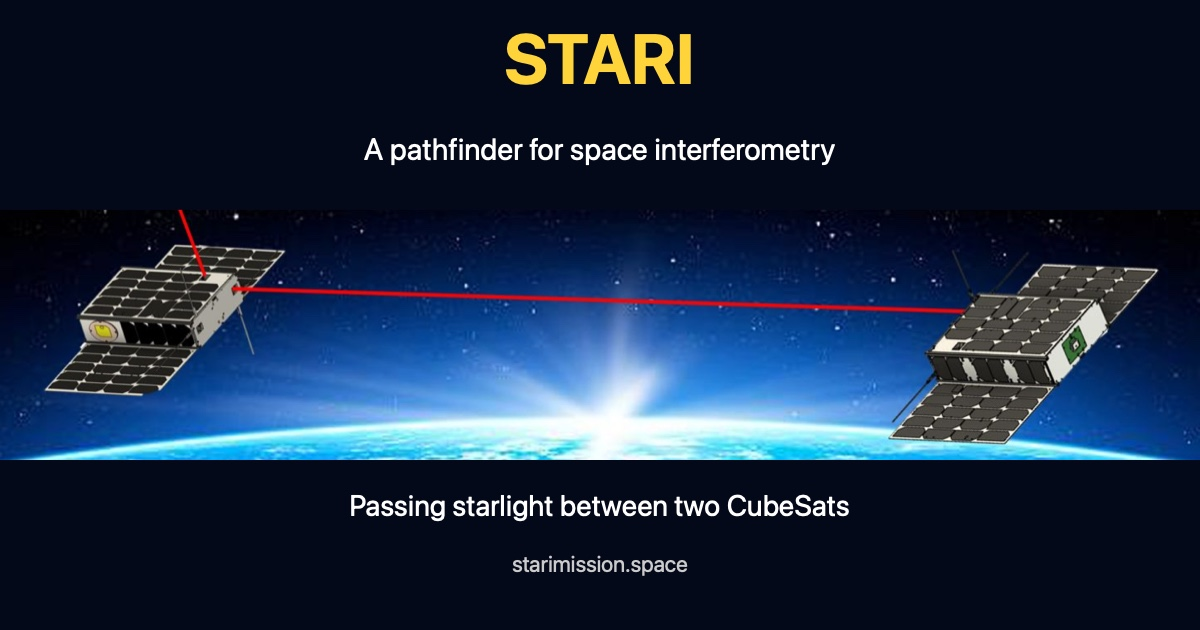
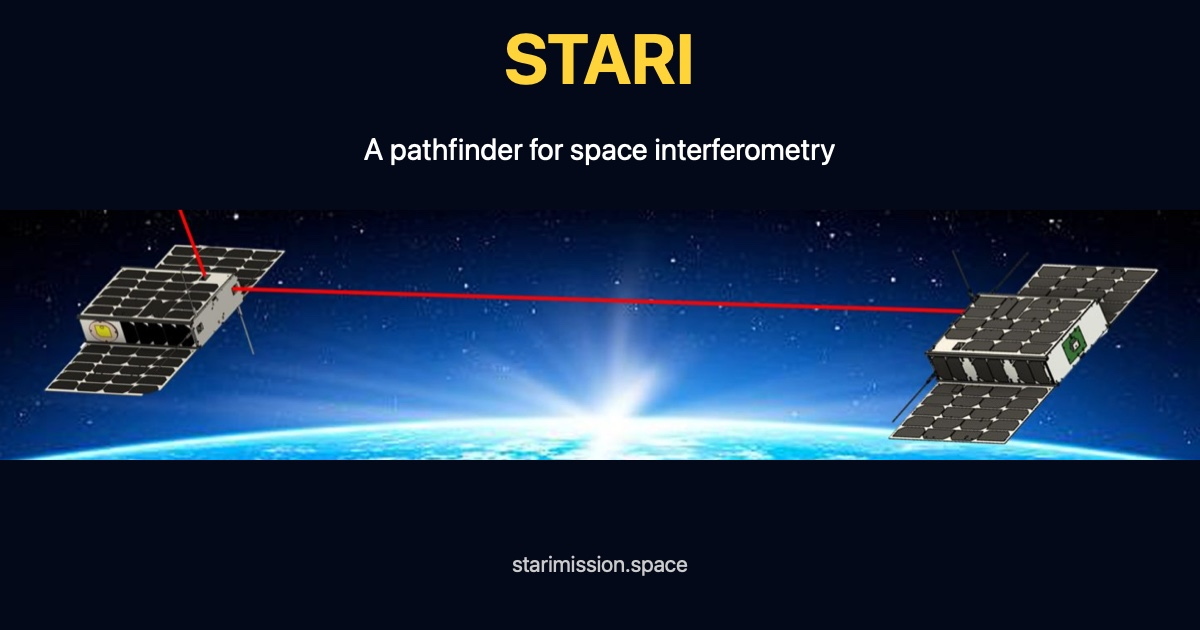
Remove secondary tagline from social sharing image

Changed region(s): [[0.2775, 0.7841, 0.7092, 0.8444]]

diff --git a/support.html b/support.html
@@ -11,14 +11,14 @@
   <meta property="og:title" content="Support STARI &amp; Space Interferometry">
   <meta property="og:description" content="Help advance STARI and the future of space interferometry. Explore University of Michigan Astronomy giving opportunities or discuss support with the mission team.">
   <meta property="og:url" content="https://starimission.space/support.html">
-  <meta property="og:image" content="https://starimission.space/images/stari-social.jpg">
+  <meta property="og:image" content="https://starimission.space/images/stari-social.jpg?v=2">
   <meta property="og:image:width" content="1200">
   <meta property="og:image:height" content="630">
   <meta property="og:image:alt" content="STARI: A pathfinder for space interferometry. Two CubeSats linked by a starlight beam above Earth.">
   <meta name="twitter:card" content="summary_large_image">
   <meta name="twitter:title" content="Support STARI &amp; Space Interferometry">
   <meta name="twitter:description" content="Help advance STARI and the future of space interferometry. Explore University of Michigan Astronomy giving opportunities or discuss support with the mission team.">
-  <meta name="twitter:image" content="https://starimission.space/images/stari-social.jpg">
+  <meta name="twitter:image" content="https://starimission.space/images/stari-social.jpg?v=2">
   <meta name="twitter:image:alt" content="STARI: A pathfinder for space interferometry. Two CubeSats linked by a starlight beam above Earth.">
   <link rel="stylesheet" href="CSS/main.css">
 </head>

diff --git a/index.html b/index.html
@@ -11,14 +11,14 @@
   <meta property="og:title" content="STARI: STarlight Acquisition and Reflection toward Interferometry">
   <meta property="og:description" content="STARI is a twin-CubeSat mission developing formation flying and starlight transfer technologies for future space-based optical interferometry.">
   <meta property="og:url" content="https://starimission.space/">
-  <meta property="og:image" content="https://starimission.space/images/stari-social.jpg">
+  <meta property="og:image" content="https://starimission.space/images/stari-social.jpg?v=2">
   <meta property="og:image:width" content="1200">
   <meta property="og:image:height" content="630">
   <meta property="og:image:alt" content="STARI: A pathfinder for space interferometry. Two CubeSats linked by a starlight beam above Earth.">
   <meta name="twitter:card" content="summary_large_image">
   <meta name="twitter:title" content="STARI: STarlight Acquisition and Reflection toward Interferometry">
   <meta name="twitter:description" content="STARI is a twin-CubeSat mission developing formation flying and starlight transfer technologies for future space-based optical interferometry.">
-  <meta name="twitter:image" content="https://starimission.space/images/stari-social.jpg">
+  <meta name="twitter:image" content="https://starimission.space/images/stari-social.jpg?v=2">
   <meta name="twitter:image:alt" content="STARI: A pathfinder for space interferometry. Two CubeSats linked by a starlight beam above Earth.">
  
 <link rel="stylesheet" href="CSS/main.css">

diff --git a/team.html b/team.html
@@ -11,14 +11,14 @@
   <meta property="og:title" content="STARI – Team">
   <meta property="og:description" content="Meet the scientists and engineers developing STARI, a CubeSat pathfinder for space-based optical interferometry.">
   <meta property="og:url" content="https://starimission.space/team.html">
-  <meta property="og:image" content="https://starimission.space/images/stari-social.jpg">
+  <meta property="og:image" content="https://starimission.space/images/stari-social.jpg?v=2">
   <meta property="og:image:width" content="1200">
   <meta property="og:image:height" content="630">
   <meta property="og:image:alt" content="STARI: A pathfinder for space interferometry. Two CubeSats linked by a starlight beam above Earth.">
   <meta name="twitter:card" content="summary_large_image">
   <meta name="twitter:title" content="STARI – Team">
   <meta name="twitter:description" content="Meet the scientists and engineers developing STARI, a CubeSat pathfinder for space-based optical interferometry.">
-  <meta name="twitter:image" content="https://starimission.space/images/stari-social.jpg">
+  <meta name="twitter:image" content="https://starimission.space/images/stari-social.jpg?v=2">
   <meta name="twitter:image:alt" content="STARI: A pathfinder for space interferometry. Two CubeSats linked by a starlight beam above Earth.">
 
   <style>
